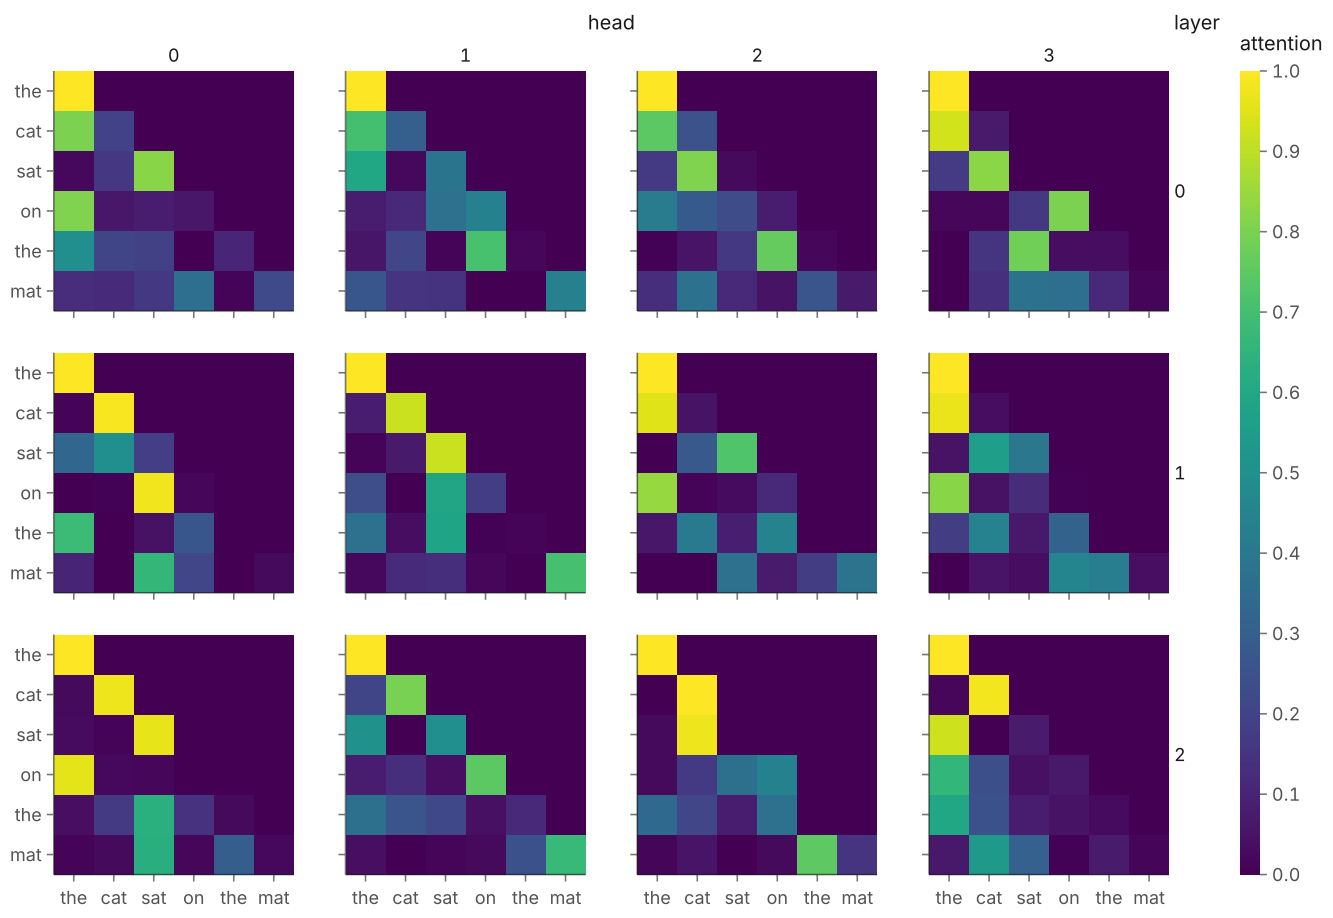
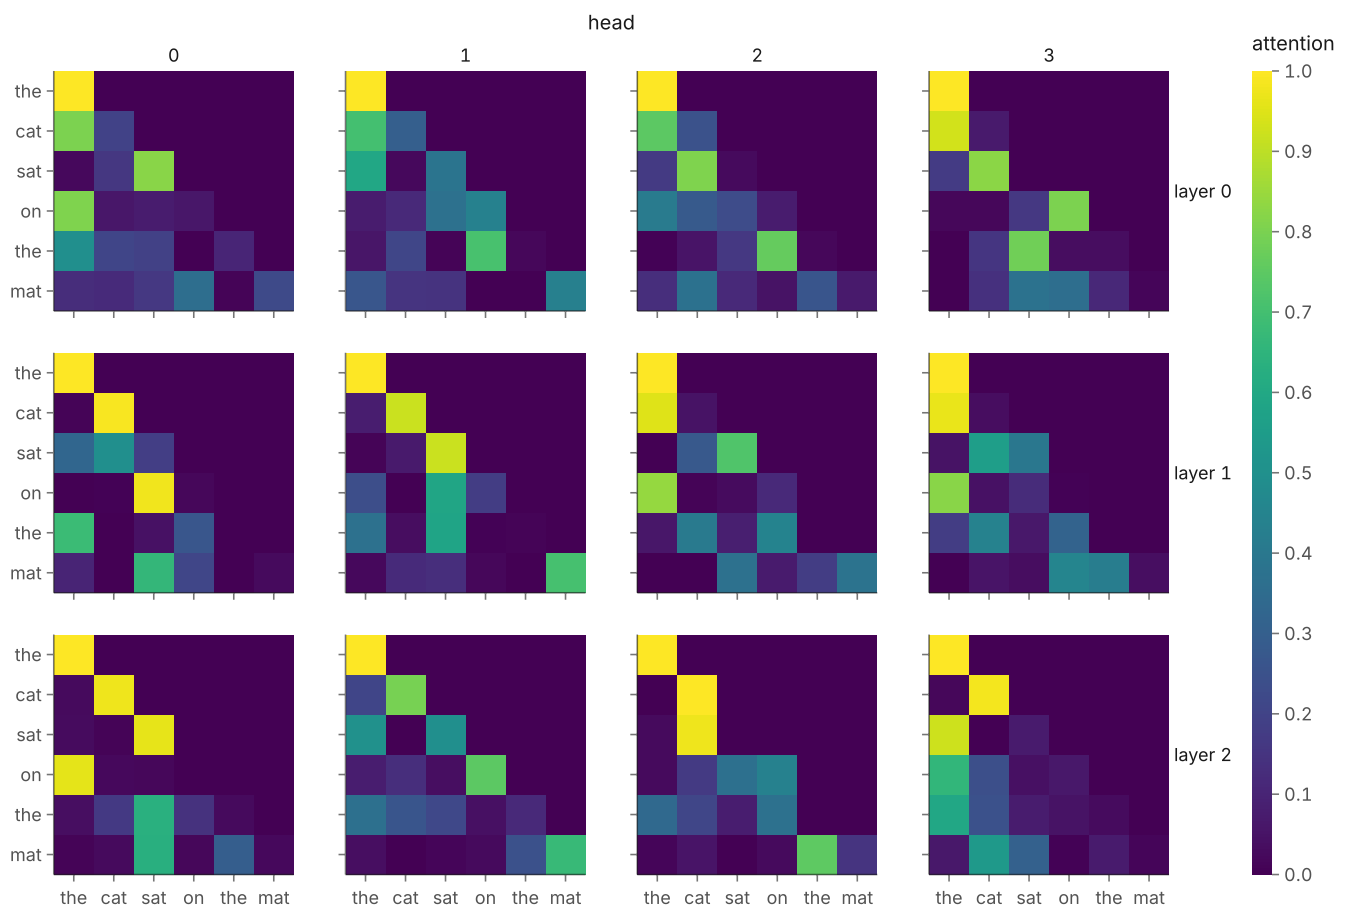
fix(hugin): Read a row facet's title in each row header
No text is turned, so the title of the headers beside a column of rows
had no place along them: it was set like a y title, above the column of
headers. There it sat on the line of a legend's title beside it, as
"layer" did beside "attention" in the attention example, and read as one
heading of two words.

A header on the left or right now reads its scale's title before its
category, "layer 0", as ggplot2's `label_both` labels a facet with
its variable and value. ggplot2 separates them with ": "; a space
reads as the name of the panel and keeps the header short.

Headers on the top or bottom keep one title centred beyond them. Their
title lies along the run of headers it titles, as an x title does, and
meets no legend title there; titling each would repeat it once per
column for no gain in reading. The rule is by side, not by facet
channel, since the collision comes from where the headers stand: an fx
facet moved to the left reads its title in each header too.

A title read in a header is figure text and still raises when no face
has one of its characters; its category is data and still only warns.

diff --git a/CHANGES.md b/CHANGES.md
@@ -245,6 +245,8 @@ All notable changes to this project will be documented in this file.
 
 ### Hugin
 
+- A facet header on the left or right reads its scale's title before its
+  category, `layer 0`, in place of a title above the column of headers.
 - **Breaking:** an axis of named categories (`strings`, `dim ~labels`) labels
   each one, where it labelled every k-th: its panel grows under `Size.panels`,
   and a `Size.figure` too small for the labels raises, naming a size that fits.
